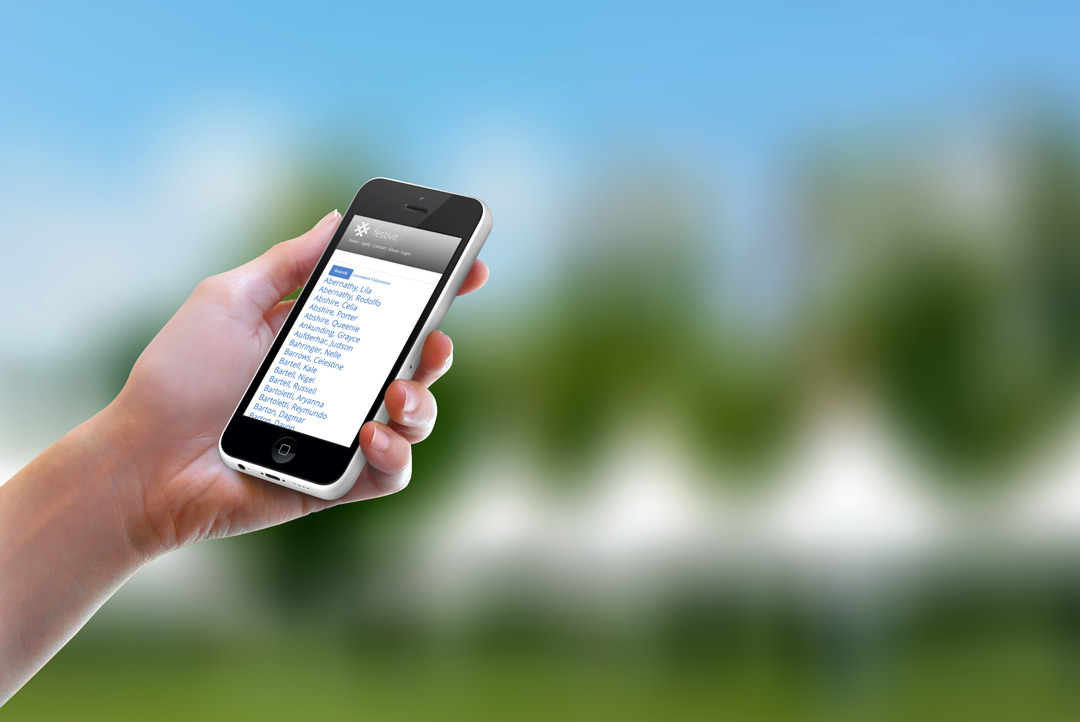
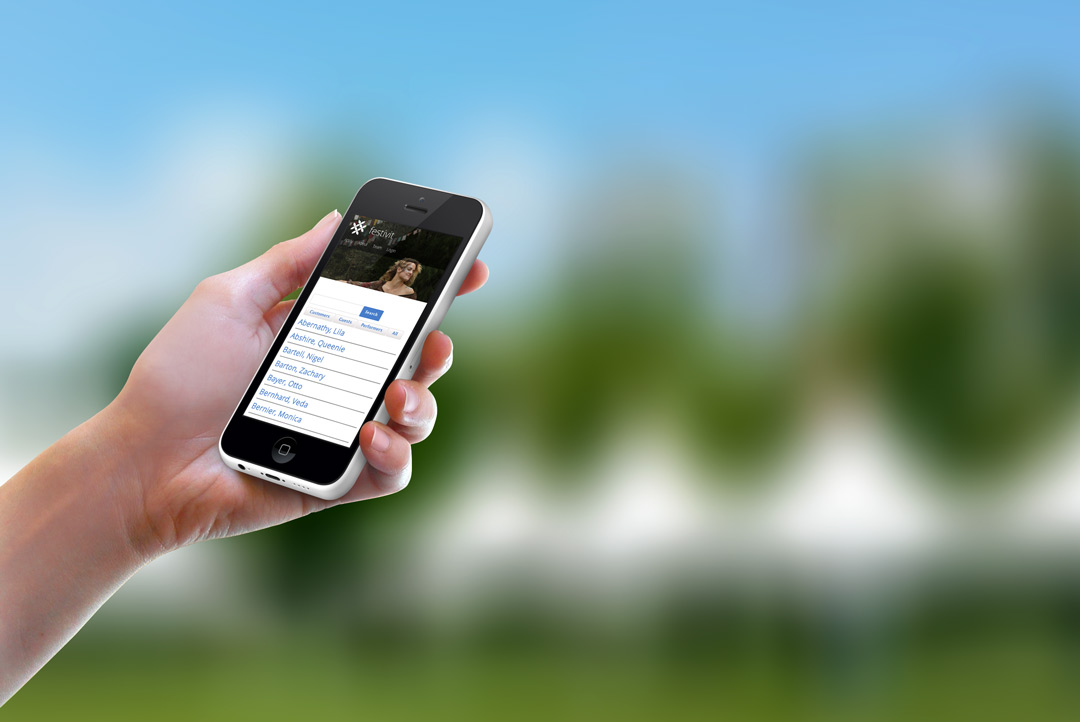
add links to about page and changed few backgrounds

Changed region(s): [[0.2139, 0.3047, 0.4278, 0.6094]]

diff --git a/app/assets/stylesheets/welcome.css.scss b/app/assets/stylesheets/welcome.css.scss
@@ -76,23 +76,23 @@ div.pnl1 {
 
 div.cont1 {
   background-image: asset-url('iphone.jpg');
-  background-size: cover;
+  background-size: 160%;
   background-repeat: no-repeat;
-  background-position: 52% 50%;
+  background-position: 20% 30%;
   width: 100%;
   height: 800px;
   z-index: 99;
-  color: white;
+  color: $dark-gray;
 
   @include media($mobile) {
     background-image: asset-url('iphone.jpg');
-    background-size: 320%;
+    background-size: 400%;
     background-repeat: no-repeat;
-    background-position: 55% 0%;
+    background-position: 40% 20%;
     width: 100%;
     height: 400px;
     z-index: 99;
-    color: white;
+    color: $dark-gray;
   }
   div.mainContainer {
     @include outer-container;
@@ -100,7 +100,7 @@ div.cont1 {
     div.halfArea {
       @include span-columns(4);
       @include shift(1);
-      padding-top: 14em;
+      padding-top: 8em;
       @include media($mobile) {
         @include span-columns(4);
         @include shift(0);

diff --git a/app/assets/stylesheets/participants.css.scss b/app/assets/stylesheets/participants.css.scss
@@ -39,7 +39,19 @@ $tfpkg-header-background: $medium-gray;
   background-repeat: no-repeat;
   z-index: 0;
   height: 16em;
+  @include media($mobile) {
+    width: 100%;
+    background-image: asset-url('hola.jpg');
+    background-size: 250%;
+    background-position: 40% 40%;
+    background-repeat: no-repeat;
+    z-index: 0;
+    height: 16em;
+  }
 }
+
+
+
 
 .form{
   @include span-columns(8);

diff --git a/db/schema.rb b/db/schema.rb
@@ -165,8 +165,8 @@ ActiveRecord::Schema.define(version: 20140817180304) do
     t.datetime "date_time"
     t.string   "status"
     t.integer  "participant_id"
-    t.text     "customer_notes"
     t.integer  "picked_up",       default: 0
+    t.text     "customer_notes"
     t.string   "item_name"
   end
 
